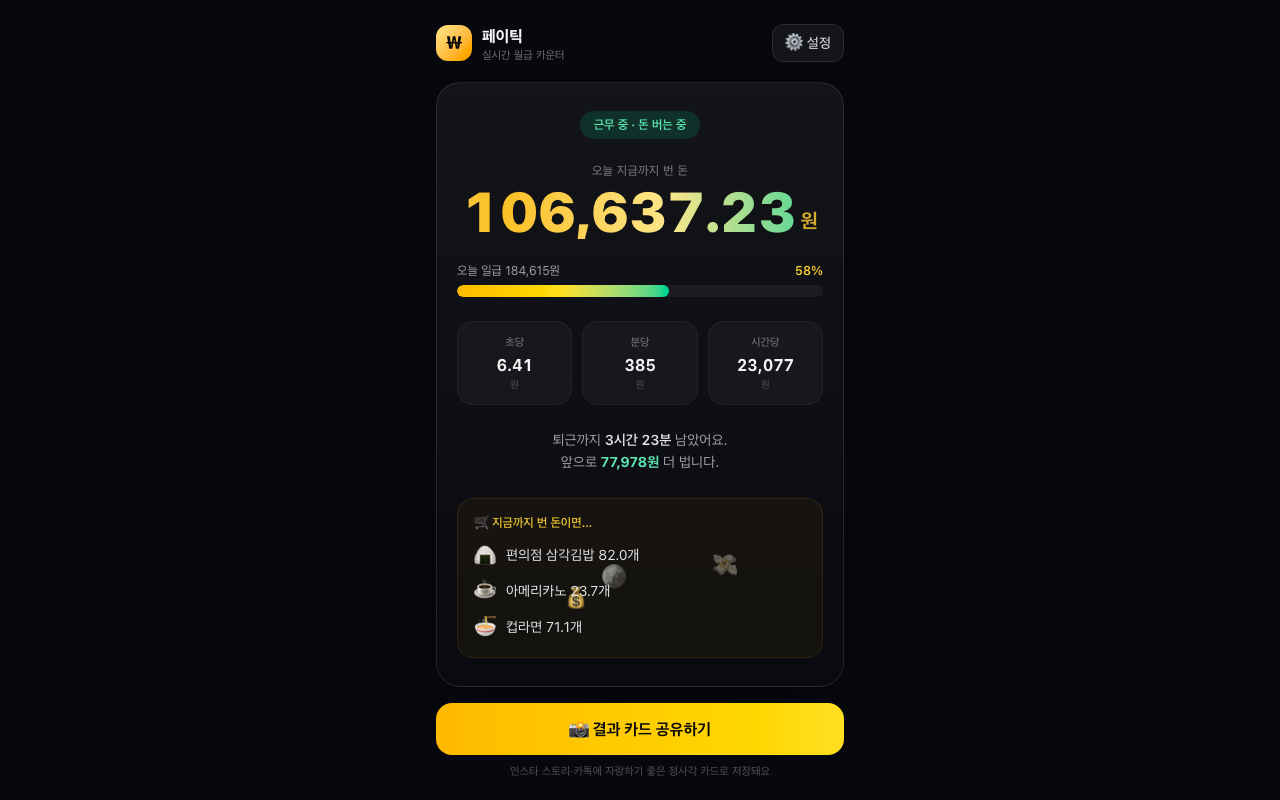
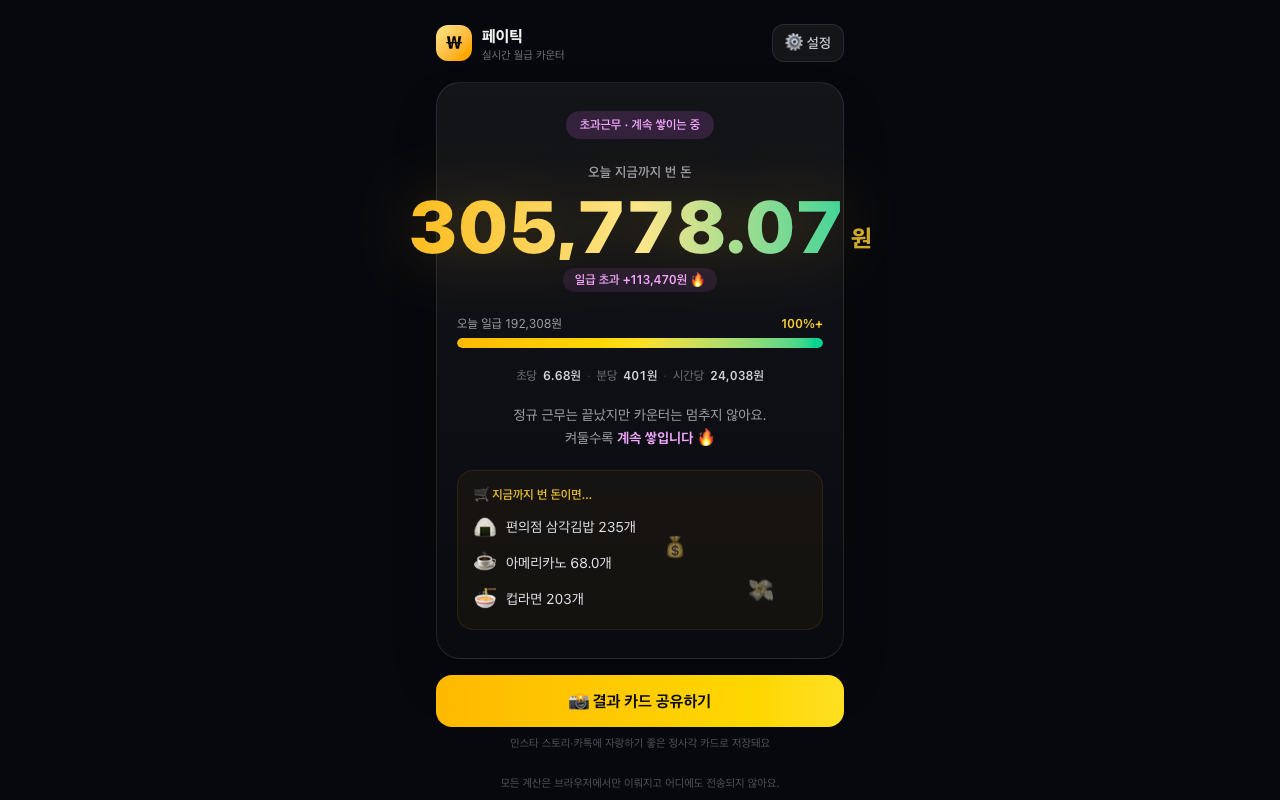
누적 총액을 hero로 + 입력값 localStorage 저장 강화
- 메인 카운터를 "초당 비율"이 아닌 "지금까지 번 누적 총액"으로 강조, 초당/분당/시간당은 보조 지표로 축소
- 정규 퇴근 이후에도 같은 비율로 계속 누적(초과근무), 일급에서 cap 되거나 0으로 리셋되지 않게 처리
- 일급 초과분(overtimeEarn) 표시 추가, after 단계 문구/뱃지 갱신
- useLocalStorage: value 변경 시 항상 기록하는 effect + 다른 탭 동기화 추가로 저장 누락 방지
- 결과 카드/README 갱신

Changed region(s): [[0.3125, 0.125, 0.6875, 0.8125], [0.3438, 0.8438, 0.6562, 1.0], [0.5312, 0.6875, 0.625, 0.75]]

diff --git a/src/lib/useLocalStorage.ts b/src/lib/useLocalStorage.ts
@@ -1,30 +1,70 @@
-import { useCallback, useState } from 'react';
+import { useCallback, useEffect, useRef, useState } from 'react';
+
+function read<T>(key: string, initial: T): T {
+  if (typeof window === 'undefined') return initial;
+  try {
+    const raw = window.localStorage.getItem(key);
+    if (raw != null) {
+      const parsed = JSON.parse(raw);
+      // 플랫 객체는 기본값과 병합해 신규 필드 누락을 방지
+      if (
+        parsed &&
+        typeof parsed === 'object' &&
+        !Array.isArray(parsed) &&
+        initial &&
+        typeof initial === 'object' &&
+        !Array.isArray(initial)
+      ) {
+        return { ...(initial as object), ...(parsed as object) } as T;
+      }
+      return parsed as T;
+    }
+  } catch {
+    /* 손상된 값은 무시하고 기본값 사용 */
+  }
+  return initial;
+}
 
 export function useLocalStorage<T>(key: string, initial: T) {
-  const [value, setValue] = useState<T>(() => {
+  const [value, setValue] = useState<T>(() => read(key, initial));
+  const keyRef = useRef(key);
+  keyRef.current = key;
+
+  // value가 어떤 경로로 바뀌든 항상 localStorage에 기록 (저장 누락 방지)
+  useEffect(() => {
     try {
-      const raw = localStorage.getItem(key);
-      if (raw) return { ...initial, ...JSON.parse(raw) } as T;
+      window.localStorage.setItem(key, JSON.stringify(value));
     } catch {
       /* ignore */
     }
-    return initial;
-  });
+  }, [key, value]);
 
-  const set = useCallback(
-    (next: T | ((prev: T) => T)) => {
-      setValue((prev) => {
-        const resolved = typeof next === 'function' ? (next as (p: T) => T)(prev) : next;
+  // 다른 탭에서의 변경을 동기화
+  useEffect(() => {
+    const onStorage = (e: StorageEvent) => {
+      if (e.key === keyRef.current && e.newValue != null) {
         try {
-          localStorage.setItem(key, JSON.stringify(resolved));
+          setValue(JSON.parse(e.newValue) as T);
         } catch {
           /* ignore */
         }
-        return resolved;
-      });
-    },
-    [key],
-  );
+      }
+    };
+    window.addEventListener('storage', onStorage);
+    return () => window.removeEventListener('storage', onStorage);
+  }, []);
+
+  const set = useCallback((next: T | ((prev: T) => T)) => {
+    setValue((prev) => {
+      const resolved = typeof next === 'function' ? (next as (p: T) => T)(prev) : next;
+      try {
+        window.localStorage.setItem(keyRef.current, JSON.stringify(resolved));
+      } catch {
+        /* ignore */
+      }
+      return resolved;
+    });
+  }, []);
 
   return [value, set] as const;
 }

diff --git a/src/components/Counter.tsx b/src/components/Counter.tsx
@@ -10,7 +10,7 @@ const PHASE_BADGE: Record<LiveStats['phase'], { text: string; cls: string }> = {
   before: { text: '아직 출근 전', cls: 'bg-sky-400/15 text-sky-300' },
   working: { text: '근무 중 · 돈 버는 중', cls: 'bg-emerald-400/15 text-emerald-300' },
   lunch: { text: '점심시간 · 카운터 정지', cls: 'bg-orange-400/15 text-orange-300' },
-  after: { text: '오늘 근무 끝! 수고했어요', cls: 'bg-amber-400/15 text-amber-300' },
+  after: { text: '초과근무 · 계속 쌓이는 중', cls: 'bg-fuchsia-400/15 text-fuchsia-300' },
 };
 
 function FloatingMoney({ active }: { active: boolean }) {
@@ -58,9 +58,12 @@ export default function Counter({ stats }: Props) {
   const fun = funConversions(stats.earnedToday);
   const progressPct = Math.round(stats.progress * 100);
 
+  // 점심 외에는 누적이 계속 올라가므로 동전 애니메이션을 유지
+  const earning = stats.phase === 'working' || stats.phase === 'after';
+
   return (
-    <div className="relative flex flex-col items-center gap-6 py-2">
-      <FloatingMoney active={stats.phase === 'working'} />
+    <div className="relative flex flex-col items-center gap-5 py-2">
+      <FloatingMoney active={earning} />
 
       <span
         className={`relative z-10 rounded-full px-3.5 py-1.5 text-xs font-semibold ${badge.cls}`}
@@ -68,26 +71,33 @@ export default function Counter({ stats }: Props) {
         {badge.text}
       </span>
 
-      {/* 메인 카운터 */}
-      <div className="relative z-10 flex flex-col items-center">
-        <span className="mb-1 text-xs font-medium tracking-wide text-zinc-500">
+      {/* 메인 카운터 (HERO) — 누적 총액 */}
+      <div className="relative z-10 flex flex-col items-center py-1">
+        <span className="mb-2 text-[13px] font-semibold tracking-wide text-zinc-400">
           오늘 지금까지 번 돈
         </span>
         <div className="flex items-end justify-center">
-          <span className="tnum money-gradient text-[clamp(2.2rem,9.5vw,3.5rem)] font-black leading-none">
+          <span className="tnum money-gradient text-[clamp(2.9rem,13vw,4.6rem)] font-black leading-[0.95] drop-shadow-[0_0_30px_rgba(251,191,36,0.25)]">
             {formatWon(stats.earnedToday, 2)}
           </span>
-          <span className="mb-1 ml-1 text-xl font-bold text-amber-300/80">원</span>
+          <span className="mb-1.5 ml-1.5 text-2xl font-extrabold text-amber-300/80">원</span>
         </div>
+        {stats.overtimeEarn > 0 && (
+          <span className="mt-2 rounded-full bg-fuchsia-400/10 px-3 py-1 text-xs font-semibold text-fuchsia-300">
+            일급 초과 +{formatWon(stats.overtimeEarn)}원 🔥
+          </span>
+        )}
       </div>
 
       {/* 진행률 */}
       <div className="relative z-10 w-full">
         <div className="mb-1.5 flex items-center justify-between text-xs text-zinc-400">
           <span>오늘 일급 {formatWon(stats.dailyTarget)}원</span>
-          <span className="font-semibold text-amber-300">{progressPct}%</span>
+          <span className="font-semibold text-amber-300">
+            {progressPct}%{stats.overtimeEarn > 0 ? '+' : ''}
+          </span>
         </div>
-        <div className="h-3 w-full overflow-hidden rounded-full bg-white/5">
+        <div className="h-2.5 w-full overflow-hidden rounded-full bg-white/5">
           <div
             className="h-full rounded-full bg-gradient-to-r from-amber-400 via-yellow-300 to-emerald-400 transition-[width] duration-300"
             style={{ width: `${Math.max(1.5, progressPct)}%` }}
@@ -95,32 +105,31 @@ export default function Counter({ stats }: Props) {
         </div>
       </div>
 
-      {/* per second/minute/hour */}
-      <div className="relative z-10 grid w-full grid-cols-3 gap-2.5">
+      {/* per second/minute/hour — 보조 지표 (작게) */}
+      <div className="relative z-10 flex w-full items-center justify-center gap-1.5 text-xs text-zinc-500">
         {[
           { label: '초당', value: stats.perSec, dec: 2 },
           { label: '분당', value: stats.perMin, dec: 0 },
           { label: '시간당', value: stats.perHour, dec: 0 },
-        ].map((it) => (
-          <div
-            key={it.label}
-            className="rounded-2xl border border-white/5 bg-white/[0.03] px-2 py-3 text-center"
-          >
-            <div className="text-[11px] font-medium text-zinc-500">{it.label}</div>
-            <div className="tnum mt-0.5 text-base font-bold text-zinc-100">
-              {formatWon(it.value, it.dec)}
-            </div>
-            <div className="text-[10px] text-zinc-600">원</div>
-          </div>
+        ].map((it, i) => (
+          <span key={it.label} className="flex items-center gap-1.5">
+            {i > 0 && <span className="text-zinc-700">·</span>}
+            <span>{it.label}</span>
+            <span className="tnum font-semibold text-zinc-300">{formatWon(it.value, it.dec)}원</span>
+          </span>
         ))}
       </div>
 
       {/* 안내 문구 */}
-      {stats.phase === 'working' || stats.phase === 'lunch' ? (
+      {stats.phase === 'working' ? (
         <p className="relative z-10 text-center text-sm leading-relaxed text-zinc-400">
           퇴근까지 <span className="font-semibold text-zinc-200">{formatDuration(stats.remainingMinutes)}</span>{' '}
           남았어요.
           <br />앞으로 <span className="font-bold text-emerald-300">{formatWon(stats.remainingEarn)}원</span> 더 법니다.
+        </p>
+      ) : stats.phase === 'lunch' ? (
+        <p className="relative z-10 text-center text-sm text-zinc-400">
+          점심시간이라 카운터는 잠시 멈췄어요. 식사 후 다시 쌓여요 🍽️
         </p>
       ) : stats.phase === 'before' ? (
         <p className="relative z-10 text-center text-sm text-zinc-400">
@@ -128,8 +137,9 @@ export default function Counter({ stats }: Props) {
           <span className="font-bold text-amber-300">{formatWon(stats.dailyTarget)}원</span> 💪
         </p>
       ) : (
-        <p className="relative z-10 text-center text-sm text-zinc-400">
-          오늘 일당 <span className="font-bold text-amber-300">{formatWon(stats.dailyTarget)}원</span> 완납! 내일 또 만나요 🎉
+        <p className="relative z-10 text-center text-sm leading-relaxed text-zinc-400">
+          정규 근무는 끝났지만 카운터는 멈추지 않아요.
+          <br />켜둘수록 <span className="font-bold text-fuchsia-300">계속 쌓입니다</span> 🔥
         </p>
       )}
 

diff --git a/src/lib/salary.ts b/src/lib/salary.ts
@@ -48,19 +48,21 @@ export function perSecond(s: Settings): number {
 }
 
 export interface LiveStats {
-  /** 오늘 출근 후 지금까지 번 돈(원) */
+  /** 오늘 출근 후 지금까지 번 돈(원) — 누적, 절대 줄어들거나 멈추지 않음 */
   earnedToday: number;
-  /** 오늘 일급(목표) */
+  /** 오늘 일급(정규 근무 기준 목표) */
   dailyTarget: number;
-  /** 진행률 0~1 */
+  /** 진행률 0~1 (정규 일급 대비) */
   progress: number;
+  /** 정규 일급을 넘어 추가로 번 금액 (초과근무) */
+  overtimeEarn: number;
   /** 초당 */
   perSec: number;
   /** 분당 */
   perMin: number;
   /** 시간당 */
   perHour: number;
-  /** 근무 시작 전 / 근무 중 / 근무 종료 */
+  /** 근무 시작 전 / 근무 중 / 점심 / 초과근무(정규 종료 이후 계속 켜둠) */
   phase: 'before' | 'working' | 'after' | 'lunch';
   /** 퇴근까지 남은 분 (근무 중일 때) */
   remainingMinutes: number;
@@ -70,7 +72,9 @@ export interface LiveStats {
 
 /**
  * now(ms) 기준으로 오늘 번 돈 계산.
- * 점심시간엔 카운터 정지.
+ * - 점심시간엔 카운터 정지.
+ * - 정규 퇴근 시각 이후에도 페이지를 켜두면 같은 초당 비율로 "초과근무"로 계속 누적.
+ *   누적 금액은 절대 0으로 리셋되거나 일급에서 멈추지 않는다.
  */
 export function computeStats(s: Settings, now: Date): LiveStats {
   const perSec = perSecond(s);
@@ -85,37 +89,27 @@ export function computeStats(s: Settings, now: Date): LiveStats {
   const ls = s.excludeLunch ? toMinutes(s.lunchStart) : -1;
   const le = s.excludeLunch ? toMinutes(s.lunchEnd) : -1;
 
+  const base = {
+    perSec,
+    perMin: perSec * 60,
+    perHour: perSec * 3600,
+  };
+
   // 출근 전
   if (nowMin < start) {
     return {
+      ...base,
       earnedToday: 0,
       dailyTarget,
       progress: 0,
-      perSec,
-      perMin: perSec * 60,
-      perHour: perSec * 3600,
+      overtimeEarn: 0,
       phase: 'before',
       remainingMinutes: workMin,
       remainingEarn: dailyTarget,
     };
   }
 
-  // 퇴근 후
-  if (nowMin >= end) {
-    return {
-      earnedToday: dailyTarget,
-      dailyTarget,
-      progress: 1,
-      perSec,
-      perMin: perSec * 60,
-      perHour: perSec * 3600,
-      phase: 'after',
-      remainingMinutes: 0,
-      remainingEarn: 0,
-    };
-  }
-
-  // 근무 시간 내: 시작부터 지금까지의 "유효 근무 분" 계산 (점심 제외)
+  // 시작부터 지금까지의 "유효 근무 분" 계산 (점심 제외). 정규 종료 이후엔 계속 누적(초과근무).
   let elapsedWorkMin = nowMin - start;
   let isLunch = false;
   if (s.excludeLunch && le > ls) {
@@ -123,24 +117,28 @@ export function computeStats(s: Settings, now: Date): LiveStats {
       // 점심 끝난 뒤 -> 점심 통째로 제외
       elapsedWorkMin -= le - ls;
     } else if (nowMin >= ls) {
-      // 점심 중 -> 점심 시작 직전까지만
+      // 점심 중 -> 점심 시작 직전까지만, 카운터 정지
       elapsedWorkMin = ls - start;
       isLunch = true;
     }
   }
   elapsedWorkMin = Math.max(0, elapsedWorkMin);
 
+  // 누적 금액: 정규 일급에서 cap 하지 않고 계속 상승
   const earnedToday = perSec * elapsedWorkMin * 60;
-  const remainingMinutes = Math.max(0, workMin - elapsedWorkMin);
+
+  // 정규 종료 이후면 초과근무 단계 (그래도 누적은 계속 올라감)
+  const isAfterEnd = nowMin >= end;
+  const overtimeEarn = Math.max(0, earnedToday - dailyTarget);
+  const remainingMinutes = isAfterEnd ? 0 : Math.max(0, workMin - elapsedWorkMin);
 
   return {
+    ...base,
     earnedToday,
     dailyTarget,
     progress: dailyTarget > 0 ? Math.min(1, earnedToday / dailyTarget) : 0,
-    perSec,
-    perMin: perSec * 60,
-    perHour: perSec * 3600,
-    phase: isLunch ? 'lunch' : 'working',
+    overtimeEarn,
+    phase: isLunch ? 'lunch' : isAfterEnd ? 'after' : 'working',
     remainingMinutes,
     remainingEarn: Math.max(0, dailyTarget - earnedToday),
   };

diff --git a/src/components/ShareCard.tsx b/src/components/ShareCard.tsx
@@ -80,7 +80,10 @@ const ShareCard = forwardRef<HTMLDivElement, Props>(({ stats }, ref) => {
           </span>
         </div>
         <div style={{ fontSize: 26, color: '#71717a', marginTop: 8 }}>
-          시간당 {formatWon(stats.perHour)}원 · 일급 진행률 {Math.round(stats.progress * 100)}%
+          시간당 {formatWon(stats.perHour)}원
+          {stats.overtimeEarn > 0
+            ? ` · 일급 초과 +${formatWon(stats.overtimeEarn)}원 🔥`
+            : ` · 일급 진행률 ${Math.round(stats.progress * 100)}%`}
         </div>
       </div>
 

diff --git a/README.md b/README.md
@@ -1,6 +1,6 @@
 # 페이틱 (pay-tick) 💸
 
-> 출근한 순간부터 "지금 이 순간 내가 얼마 벌고 있는지" 초 단위로 차오르는 실시간 월급 카운터
+> 출근한 순간부터 "내가 지금까지 얼마나 벌었는지" 누적 총액이 초마다 끝없이 차오르는 실시간 월급 카운터
 
 ![React](https://img.shields.io/badge/React-19-61DAFB?logo=react&logoColor=white)
 ![TypeScript](https://img.shields.io/badge/TypeScript-5-3178C6?logo=typescript&logoColor=white)
@@ -13,20 +13,22 @@
 
 ## 소개
 
-연봉·월급·시급과 근무 시간만 입력하면, 출근한 시점부터 지금까지 번 돈이
-소수점까지 실시간으로 빠르게 올라갑니다. 점심시간엔 카운터도 같이 쉬어요.
+연봉·월급·시급과 근무 시간만 입력하면, 출근한 시점부터 지금까지 번 **누적 총액**이
+소수점까지 실시간으로 끝없이 올라갑니다. 켜둘수록 큰 숫자가 계속 차올라
+"내가 이만큼 벌었다"는 누적 쾌감을 줍니다. 점심시간엔 카운터도 같이 쉬어요.
 캡처해서 SNS에 자랑하기 좋은 정사각 결과 카드도 만들어 줍니다.
 
 ## ✨ 주요 기능
 
+- 💰 **누적 총액이 주인공** — 출근 시점부터 지금까지 번 돈이 대형 카운터로 초마다 부드럽게 상승
+- ♾️ **멈추지 않는 카운터** — 정규 퇴근 시각이 지나도 "초과근무"로 계속 쌓이고, 일급에서 cap 되거나 0으로 리셋되지 않음
 - ⏱️ **실시간 카운트업** — `requestAnimationFrame` 기반 ~60fps로 소수점 둘째 자리까지 부드럽게 증가
-- 💰 **유연한 입력** — 연봉 / 월급 / 시급 중 선택, 프리셋 버튼 제공
+- 💵 **유연한 입력** — 연봉 / 월급 / 시급 중 선택, 프리셋 버튼 제공
 - 🕘 **근무 형태 설정** — 출근·퇴근 시각, 점심시간 제외, 주 근무일(1~7일)
-- 📊 **상세 지표** — 초당·분당·시간당 수입, 오늘 일급 대비 진행률 바
-- 🧭 **남은 시간 안내** — "퇴근까지 X시간 Y분, 앞으로 OO원 더 번다"
+- 📊 **보조 지표** — 초당·분당·시간당 수입, 오늘 일급 대비 진행률 바(초과 시 +로 표시)
 - 🛒 **재미 환산** — 지금까지 번 돈으로 살 수 있는 삼각김밥·아메리카노·치킨 개수
 - 📸 **결과 카드 공유** — 인스타·카톡용 1080×1080 정사각 카드 PNG로 저장/공유
-- 💾 **자동 저장** — 입력값은 localStorage에 저장되어 재방문 시 그대로 유지
+- 💾 **자동 저장** — 연봉·근무 설정 등 모든 입력값이 localStorage에 저장되어 새로고침·재방문 시 그대로 유지
 - 🔒 **완전 클라이언트** — 모든 계산은 브라우저에서만, 서버 전송 없음
 
 ## 🛠 기술 스택
@@ -52,7 +54,8 @@ npm run build && npm run preview
 ## 📁 계산 로직
 
 - `src/lib/salary.ts` — 연봉/월급/시급을 초당 수입으로 환산하고, 점심시간을 제외한
-  유효 근무 시간 기준으로 "오늘 지금까지 번 돈"을 계산합니다.
+  유효 근무 시간 기준으로 "오늘 지금까지 번 돈(누적)"을 계산합니다. 정규 퇴근 이후엔
+  같은 비율로 초과근무 누적이 이어져 카운터가 멈추지 않습니다.
 - `src/lib/useNow.ts` — rAF 기반 시계 훅으로 매 프레임 리렌더하여 카운터가 부드럽게 올라갑니다.
 
 ---